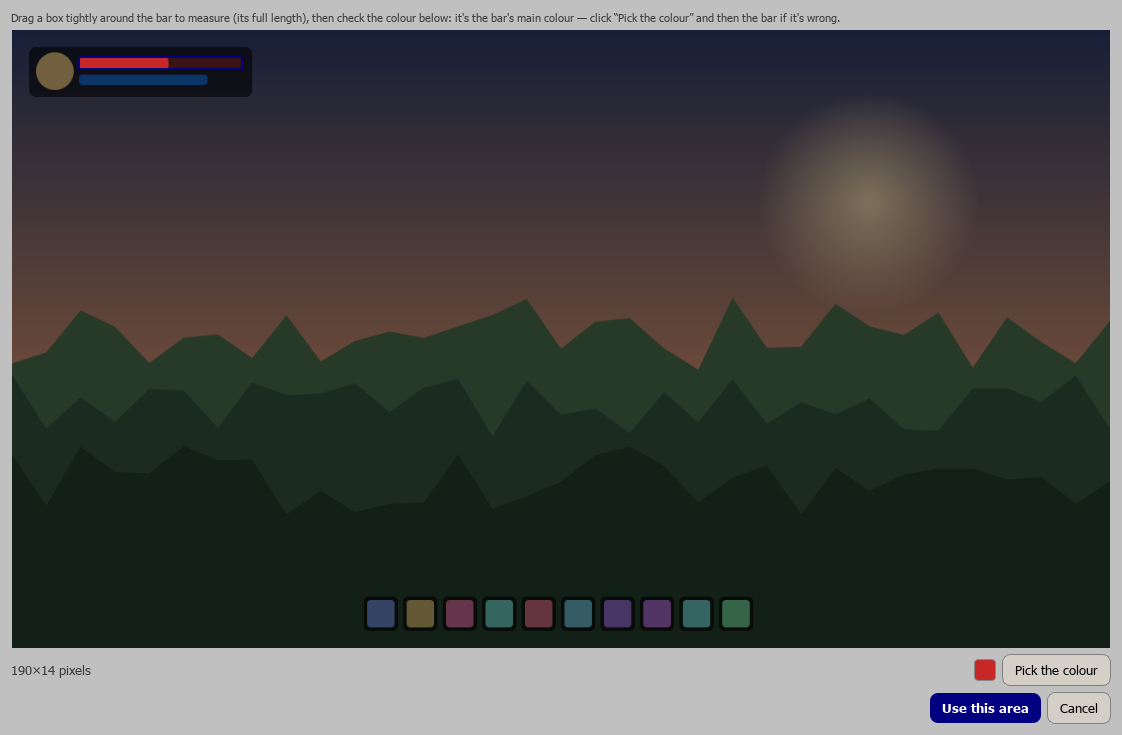
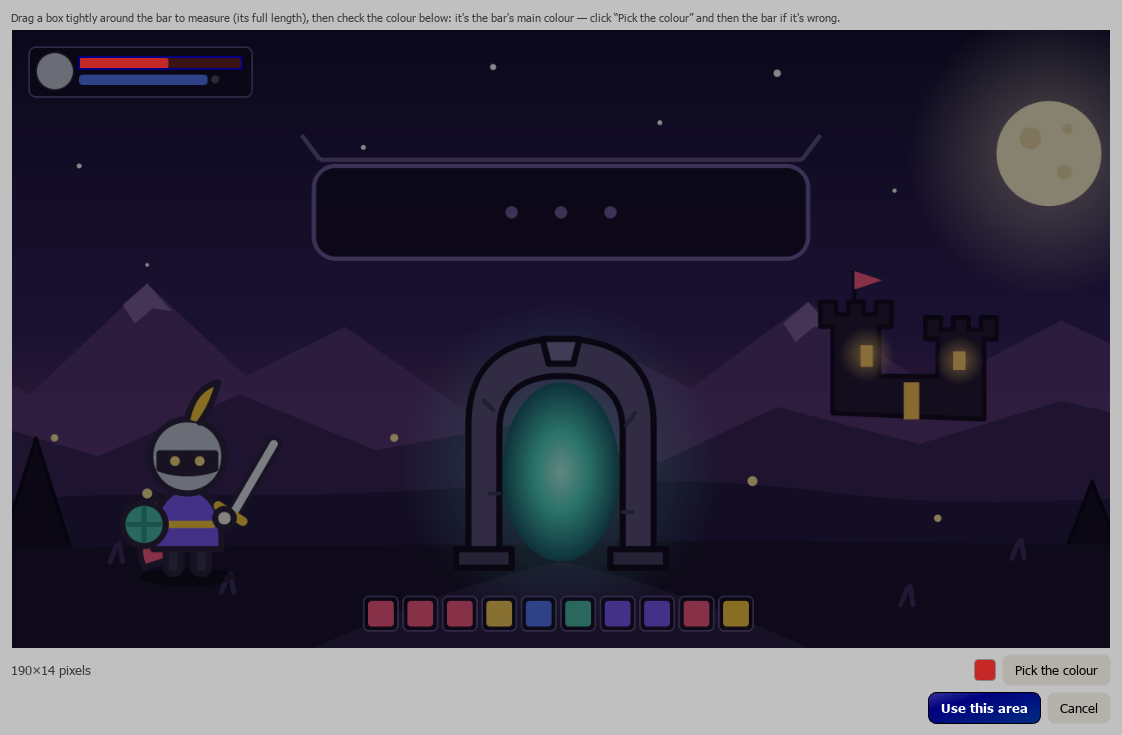
Screenshots: the game is the website demo's scene
The made-up game in the README and website pictures was a QPainter sky with
random hills. It's now game_scene.svg, the same dusk scene as the Watch demo
on Onion Board's website (castle, glowing arch, a little knight), with the
health bar, action bar, banner and whisper drawn on top. The rare spawn comes
out of the arch with its name on the plate, which is what the trigger cuts.
screenshots.py takes --theme (the board's site uses --theme Hoot copies).
Pictures re-shot.

diff --git a/docs/index.html b/docs/index.html
@@ -7,7 +7,7 @@
 <meta name="description" content="Free Windows app that plays a sound when something shows up in your game: a rare spawn, a queue pop, a whisper, YOU DIED. It watches the game's own window, even while you're alt-tabbed away, and never touches the game.">
 <meta property="og:title" content="Onion Watch: a sound when your game needs you">
 <meta property="og:description" content="Plays a sound when a rare spawn, a queue pop or a whisper shows up in your game, even while you're alt-tabbed. Free, Windows, it only looks.">
-<meta property="og:image" content="https://onion-alien.github.io/onion-watch/art/social-preview.png?v=e6040463">
+<meta property="og:image" content="https://onion-alien.github.io/onion-watch/art/social-preview.png?v=c5a1bb83">
 <meta property="og:type" content="website">
 <meta name="twitter:card" content="summary_large_image">
 <link rel="canonical" href="https://onion-alien.github.io/onion-watch/">
@@ -70,7 +70,7 @@
       <a href="https://www.virustotal.com/gui/file/08de1d443d172d34d1102800208f2cb0123223dac3adba19784f68c7414afb87">VirusTotal: 67 of 67 clean</a> ·
       <a href="https://github.com/Onion-Alien/onion-watch/releases/latest">what's new</a></p>
     <!-- /release -->
-    <img class="hero" src="screenshots/main.png?v=0aa481d7" width="900" height="820"
+    <img class="hero" src="screenshots/main.png?v=644ac332" width="900" height="820"
          alt="Onion Watch watching a game, one trigger open">
   </header>
 
@@ -86,10 +86,10 @@
 
   <h2>A closer look</h2>
   <div class="grid shots">
-    <figure><img src="screenshots/window-picker.png?v=c1530a72" alt="Picking the windows to watch" loading="lazy"><figcaption>Pick the windows, or every copy of a game</figcaption></figure>
-    <figure><img src="screenshots/cut-picture.png?v=f1990b26" alt="Cutting a picture out of the game" loading="lazy"><figcaption>Cut out the thing to watch for</figcaption></figure>
-    <figure><img src="screenshots/health-bar.png?v=21bb09ba" alt="Picking a health bar and its colour" loading="lazy"><figcaption>Or point it at a health bar</figcaption></figure>
-    <figure><img src="screenshots/categories.png?v=5544963f" alt="Categories and profiles" loading="lazy"><figcaption>Hundreds of triggers in categories and profiles</figcaption></figure>
+    <figure><img src="screenshots/window-picker.png?v=3174b328" alt="Picking the windows to watch" loading="lazy"><figcaption>Pick the windows, or every copy of a game</figcaption></figure>
+    <figure><img src="screenshots/cut-picture.png?v=79c88495" alt="Cutting a picture out of the game" loading="lazy"><figcaption>Cut out the thing to watch for</figcaption></figure>
+    <figure><img src="screenshots/health-bar.png?v=9fdf7216" alt="Picking a health bar and its colour" loading="lazy"><figcaption>Or point it at a health bar</figcaption></figure>
+    <figure><img src="screenshots/categories.png?v=32a9775a" alt="Categories and profiles" loading="lazy"><figcaption>Hundreds of triggers in categories and profiles</figcaption></figure>
   </div>
 
   <h2>Get started</h2>

diff --git a/scripts/screenshots.py b/scripts/screenshots.py
@@ -1,14 +1,17 @@
 """Render the README screenshots offscreen from made-up demo data: no window is
 shown, no screen or window is captured, nothing is heard.
 
-    python scripts/screenshots.py [out_dir]      (default: docs/screenshots)
+    python scripts/screenshots.py [out_dir] [--theme NAME]   (default: docs/screenshots)
 
-The "game" is drawn here with QPainter (a made-up MMO called Realm Online), the
+Onion Board's website uses copies in its Hoot theme: --theme Hoot.
+
+The "game" is game_scene.svg (the website demo's scene) with a made-up HUD on top, the
 windows in the picker are invented, and the app folder is a throwaway one.
 """
 from __future__ import annotations
 
 import os
+import re
 import sys
 import tempfile
 from pathlib import Path
@@ -21,9 +24,9 @@ ROOT = Path(__file__).resolve().parent.parent
 sys.path.insert(0, str(ROOT))
 
 import numpy as np  # noqa: E402
-from PySide6.QtCore import QPointF, QRect, QRectF, Qt  # noqa: E402
-from PySide6.QtGui import (QColor, QFont, QImage, QLinearGradient, QPainter,  # noqa: E402
-                           QPainterPath, QPen, QRadialGradient)
+from PySide6.QtCore import QByteArray, QRect, QRectF, Qt  # noqa: E402
+from PySide6.QtGui import QColor, QFont, QImage, QPainter, QPen  # noqa: E402
+from PySide6.QtSvg import QSvgRenderer  # noqa: E402
 from PySide6.QtWidgets import QApplication  # noqa: E402
 
 
@@ -62,78 +65,90 @@ def fill_view(dlg, app):
     if extra > 0:
         dlg.resize(dlg.width() + extra, dlg.height())
 
+SCENE = Path(__file__).with_name("game_scene.svg").read_text(encoding="utf-8")
+PLATE = QRectF(150, 44, 160, 30)     # the name plate, in game_scene.svg's own units
+SLOTS = ("#7c5cff", "#ff5c8a", "#ffcf40", "#4fc3b0", "#ffd45e", "#5a7dff")
+
+
+def scene_rect(w: int, h: int, r: QRectF = PLATE) -> QRect:
+    """Where a part of game_scene.svg lands in a w x h frame (it fills the frame,
+    centred, cropping the sides like the website does)."""
+    s = max(w / 460, h / 200)
+    x0, y0 = (w - 460 * s) / 2, (h - 200 * s) / 2
+    return QRect(round(x0 + r.x() * s), round(y0 + r.y() * s),
+                 round(r.width() * s), round(r.height() * s))
+
+
+def banner_rect(w: int, h: int) -> QRect:
+    return QRect(w // 2 - 230, int(h * 0.05), 460, 64)
+
+
 def game_scene(w: int, h: int, seed: int = 0, plate: str = "", banner: str = "",
                whisper: str = "", hp: float = 1.0) -> QImage:
-    """A made-up fantasy MMO frame: sky, hills, a health bar (`hp` full), maybe a
-    rare's name plate, a "queue ready" banner or a whisper in the chat."""
+    """A made-up fantasy game frame: the website demo's dusk scene (castle, arch,
+    a little knight), a health bar (`hp` full), and maybe a rare one out of the arch
+    with its name on the plate, a "queue ready" banner or a whisper in the chat."""
     rng = np.random.default_rng(seed)
+    svg = SCENE.replace('<g class="knight">',
+                        f'<g class="knight" transform="translate({rng.uniform(-25, 45):.0f} 0)">')
+    if plate:
+        svg = re.sub(r'<g class="runes".*?</g>', "", svg)
+    else:
+        svg = re.sub(r'\n  <g class="rare">.*?\n  </g>', "", svg, flags=re.S)
     img = QImage(w, h, QImage.Format_ARGB32)
+    img.fill(QColor("#140f33"))
     p = QPainter(img)
     p.setRenderHint(QPainter.Antialiasing)
-    sky = QLinearGradient(0, 0, 0, h)
-    sky.setColorAt(0, QColor("#2b3a67"))
-    sky.setColorAt(0.55, QColor("#c98b6b"))
-    sky.setColorAt(1, QColor("#3f5a3a"))
-    p.fillRect(0, 0, w, h, sky)
-    for layer, col in enumerate(("#4a6b4a", "#35523a", "#243d2b")):
-        path = QPainterPath(QPointF(0, h))
-        base = h * (0.55 + 0.12 * layer)
-        for x in range(0, w + 40, 40):
-            path.lineTo(x, base - rng.uniform(0, h * 0.12))
-        path.lineTo(w, h)
-        p.fillPath(path, QColor(col))
-    glow = QRadialGradient(QPointF(w * 0.78, h * 0.28), h * 0.18)
-    glow.setColorAt(0, QColor(255, 230, 180, 220))
-    glow.setColorAt(1, QColor(255, 230, 180, 0))
-    p.fillRect(0, 0, w, h, glow)
+    p.setRenderHint(QPainter.TextAntialiasing)
+    whole = QRectF(scene_rect(w, h, QRectF(0, 0, 460, 200)))
+    QSvgRenderer(QByteArray(svg.encode())).render(p, whole)
+    frame, edge = QColor(16, 11, 34, 185), QPen(QColor("#6f5fa0"), 1.5)
     # the player's frame
-    p.setPen(Qt.NoPen)
-    p.setBrush(QColor(0, 0, 0, 150))
+    p.setPen(edge)
+    p.setBrush(frame)
     p.drawRoundedRect(QRectF(20, 20, 260, 58), 8, 8)
+    p.setPen(Qt.NoPen)
     p.setBrush(QColor("#3a1414"))
     p.drawRoundedRect(HP_BAR, 4, 4)
     p.setBrush(QColor("#c62828"))
     p.drawRoundedRect(QRectF(HP_BAR.x(), HP_BAR.y(), HP_BAR.width() * hp, HP_BAR.height()),
                       4, 4)
-    p.setBrush(QColor("#1565c0"))
+    p.setBrush(QColor("#5a7dff"))
     p.drawRoundedRect(QRectF(78, 52, 150, 12), 4, 4)
-    p.setBrush(QColor("#d7b377"))
+    p.setPen(QPen(QColor("#2b2340"), 2))
+    p.setBrush(QColor("#c9cede"))
     p.drawEllipse(QRectF(28, 26, 44, 44))
     # the action bar
     for i in range(10):
         x = w / 2 - 5 * 46 + i * 46
-        p.setBrush(QColor(0, 0, 0, 160))
+        p.setPen(edge)
+        p.setBrush(frame)
         p.drawRoundedRect(QRectF(x, h - 60, 40, 40), 6, 6)
-        p.setBrush(QColor.fromHsv(int(rng.integers(0, 360)), 120, 190))
-        p.drawRoundedRect(QRectF(x + 4, h - 56, 32, 32), 4, 4)
-    if plate:
-        f = QFont("Georgia", 15, QFont.Bold)
-        p.setFont(f)
-        r = QRectF(w * 0.36, h * 0.36, 300, 50)
-        p.setBrush(QColor(0, 0, 0, 170))
-        p.drawRoundedRect(r, 6, 6)
-        p.setPen(QColor("#ffcc33"))
-        p.drawText(r.adjusted(0, 2, 0, -18), Qt.AlignCenter, plate)
         p.setPen(Qt.NoPen)
-        p.setBrush(QColor("#c62828"))
-        p.drawRoundedRect(QRectF(r.x() + 20, r.bottom() - 14, r.width() - 40, 7), 3, 3)
-        p.setPen(QPen(QColor("#ffcc33"), 2))
-        p.setBrush(Qt.NoBrush)
-        p.drawEllipse(QRectF(r.x() + 4, r.y() + 4, 16, 16))
+        p.setBrush(QColor(SLOTS[int(rng.integers(0, len(SLOTS)))]))
+        p.drawRoundedRect(QRectF(x + 5, h - 55, 30, 30), 4, 4)
+    if plate:
+        r = QRectF(scene_rect(w, h))
+        f = QFont("Georgia")
+        f.setBold(True)
+        f.setPixelSize(max(10, round(r.height() * 0.42)))
+        p.setFont(f)
+        p.setPen(QColor("#ffcc33"))
+        p.drawText(r, Qt.AlignCenter, plate)
     if banner:
         f = QFont("Georgia", 22, QFont.Bold)
         p.setFont(f)
-        r = QRectF(w / 2 - 230, h * 0.16, 460, 64)
-        p.setPen(QPen(QColor("#e0c060"), 3))
-        p.setBrush(QColor(20, 20, 40, 220))
+        r = QRectF(banner_rect(w, h))
+        p.setPen(QPen(QColor("#ffcf40"), 3))
+        p.setBrush(QColor(16, 11, 34, 225))
         p.drawRoundedRect(r, 10, 10)
-        p.setPen(QColor("#f5e6b0"))
+        p.setPen(QColor("#fff3d1"))
         p.drawText(r, Qt.AlignCenter, banner)
     if whisper:
         f = QFont("Segoe UI", 12, QFont.Bold)
         p.setFont(f)
         p.setPen(Qt.NoPen)
-        p.setBrush(QColor(0, 0, 0, 140))
+        p.setBrush(QColor(0, 0, 0, 150))
         p.drawRoundedRect(QRectF(20, h - 150, 420, 34), 6, 6)
         p.setPen(QColor("#ff8ad8"))
         p.drawText(QRectF(30, h - 150, 400, 34), Qt.AlignVCenter | Qt.AlignLeft, whisper)
@@ -169,11 +184,11 @@ def main(out: Path):
     every = WindowRef(acct1.exe, acct1.title, 0, True)
     bar = (HP_BAR.x() / w, HP_BAR.y() / h, HP_BAR.width() / w, HP_BAR.height() / h)
     demo = [
-        ("Rare spawn: Gorehowl", cut(rare, QRect(int(w * 0.36), int(h * 0.36), 300, 34)),
+        ("Rare spawn: Gorehowl", cut(rare, scene_rect(w, h)),
          [every], ["builtin:alarm"], True, 0.85, 0.93, {}),
         ("Health low", None, [acct1], ["builtin:bell"], True, 0.30, 0.64,
          {"mode": "colour", "colour": "#c62828", "region": bar, "hold": 1.0}),
-        ("Dungeon queue", cut(queue, QRect(w // 2 - 230, int(h * 0.16), 460, 64)),
+        ("Dungeon queue", cut(queue, banner_rect(w, h)),
          [], ["builtin:rising", "builtin:chime"], True, 0.80, 0.41, {"stop": "focus"}),
         ("Whisper", cut(queue, QRect(20, h - 150, 230, 34)), [acct1, acct2], ["builtin:ping"],
          False, 0.80, 0.22, {}),
@@ -262,7 +277,7 @@ def main(out: Path):
     # cutting a picture out of the game window
     from onionwatch.ui.snip import SnipDialog
     snip = SnipDialog(rare, "Realm Online (copy 2)", win)
-    snip.view.selection = QRect(int(w * 0.36), int(h * 0.36), 300, 34)
+    snip.view.selection = scene_rect(w, h)
     snip._update()
     snip.show()
     fill_view(snip, app)
@@ -366,4 +381,9 @@ def main(out: Path):
 
 
 if __name__ == "__main__":
-    main(Path(sys.argv[1]) if len(sys.argv) > 1 else ROOT / "docs" / "screenshots")
+    args = sys.argv[1:]
+    if "--theme" in args:
+        i = args.index("--theme")
+        THEME = args[i + 1]
+        del args[i:i + 2]
+    main(Path(args[0]) if args else ROOT / "docs" / "screenshots")

diff --git a/README.md b/README.md
@@ -19,13 +19,13 @@ Version **0.9.6** · Windows 10 / 11 · free, no account, no internet needed ·
 [VirusTotal: 67 of 67 clean](https://www.virustotal.com/gui/file/08de1d443d172d34d1102800208f2cb0123223dac3adba19784f68c7414afb87) · [what's new](https://github.com/Onion-Alien/onion-watch/releases/latest)
 <!-- /release -->
 
-![Onion Watch watching a game, one trigger open](docs/screenshots/main.png?v=0aa481d7)
+![Onion Watch watching a game, one trigger open](docs/screenshots/main.png?v=644ac332)
 
 | | |
 |---|---|
-| ![The window picker](docs/screenshots/window-picker.png?v=c1530a72) | ![Cutting a picture from a window](docs/screenshots/cut-picture.png?v=f1990b26) |
+| ![The window picker](docs/screenshots/window-picker.png?v=3174b328) | ![Cutting a picture from a window](docs/screenshots/cut-picture.png?v=79c88495) |
 | Pick the windows, or every copy of a game | Cut the thing to watch for straight out of the game |
-| ![Picking a health bar and its colour](docs/screenshots/health-bar.png?v=21bb09ba) | ![Categories and profiles](docs/screenshots/categories.png?v=5544963f) |
+| ![Picking a health bar and its colour](docs/screenshots/health-bar.png?v=9fdf7216) | ![Categories and profiles](docs/screenshots/categories.png?v=32a9775a) |
 | Or point it at a health bar | Hundreds of triggers in categories and profiles |
 
 ## It only looks
